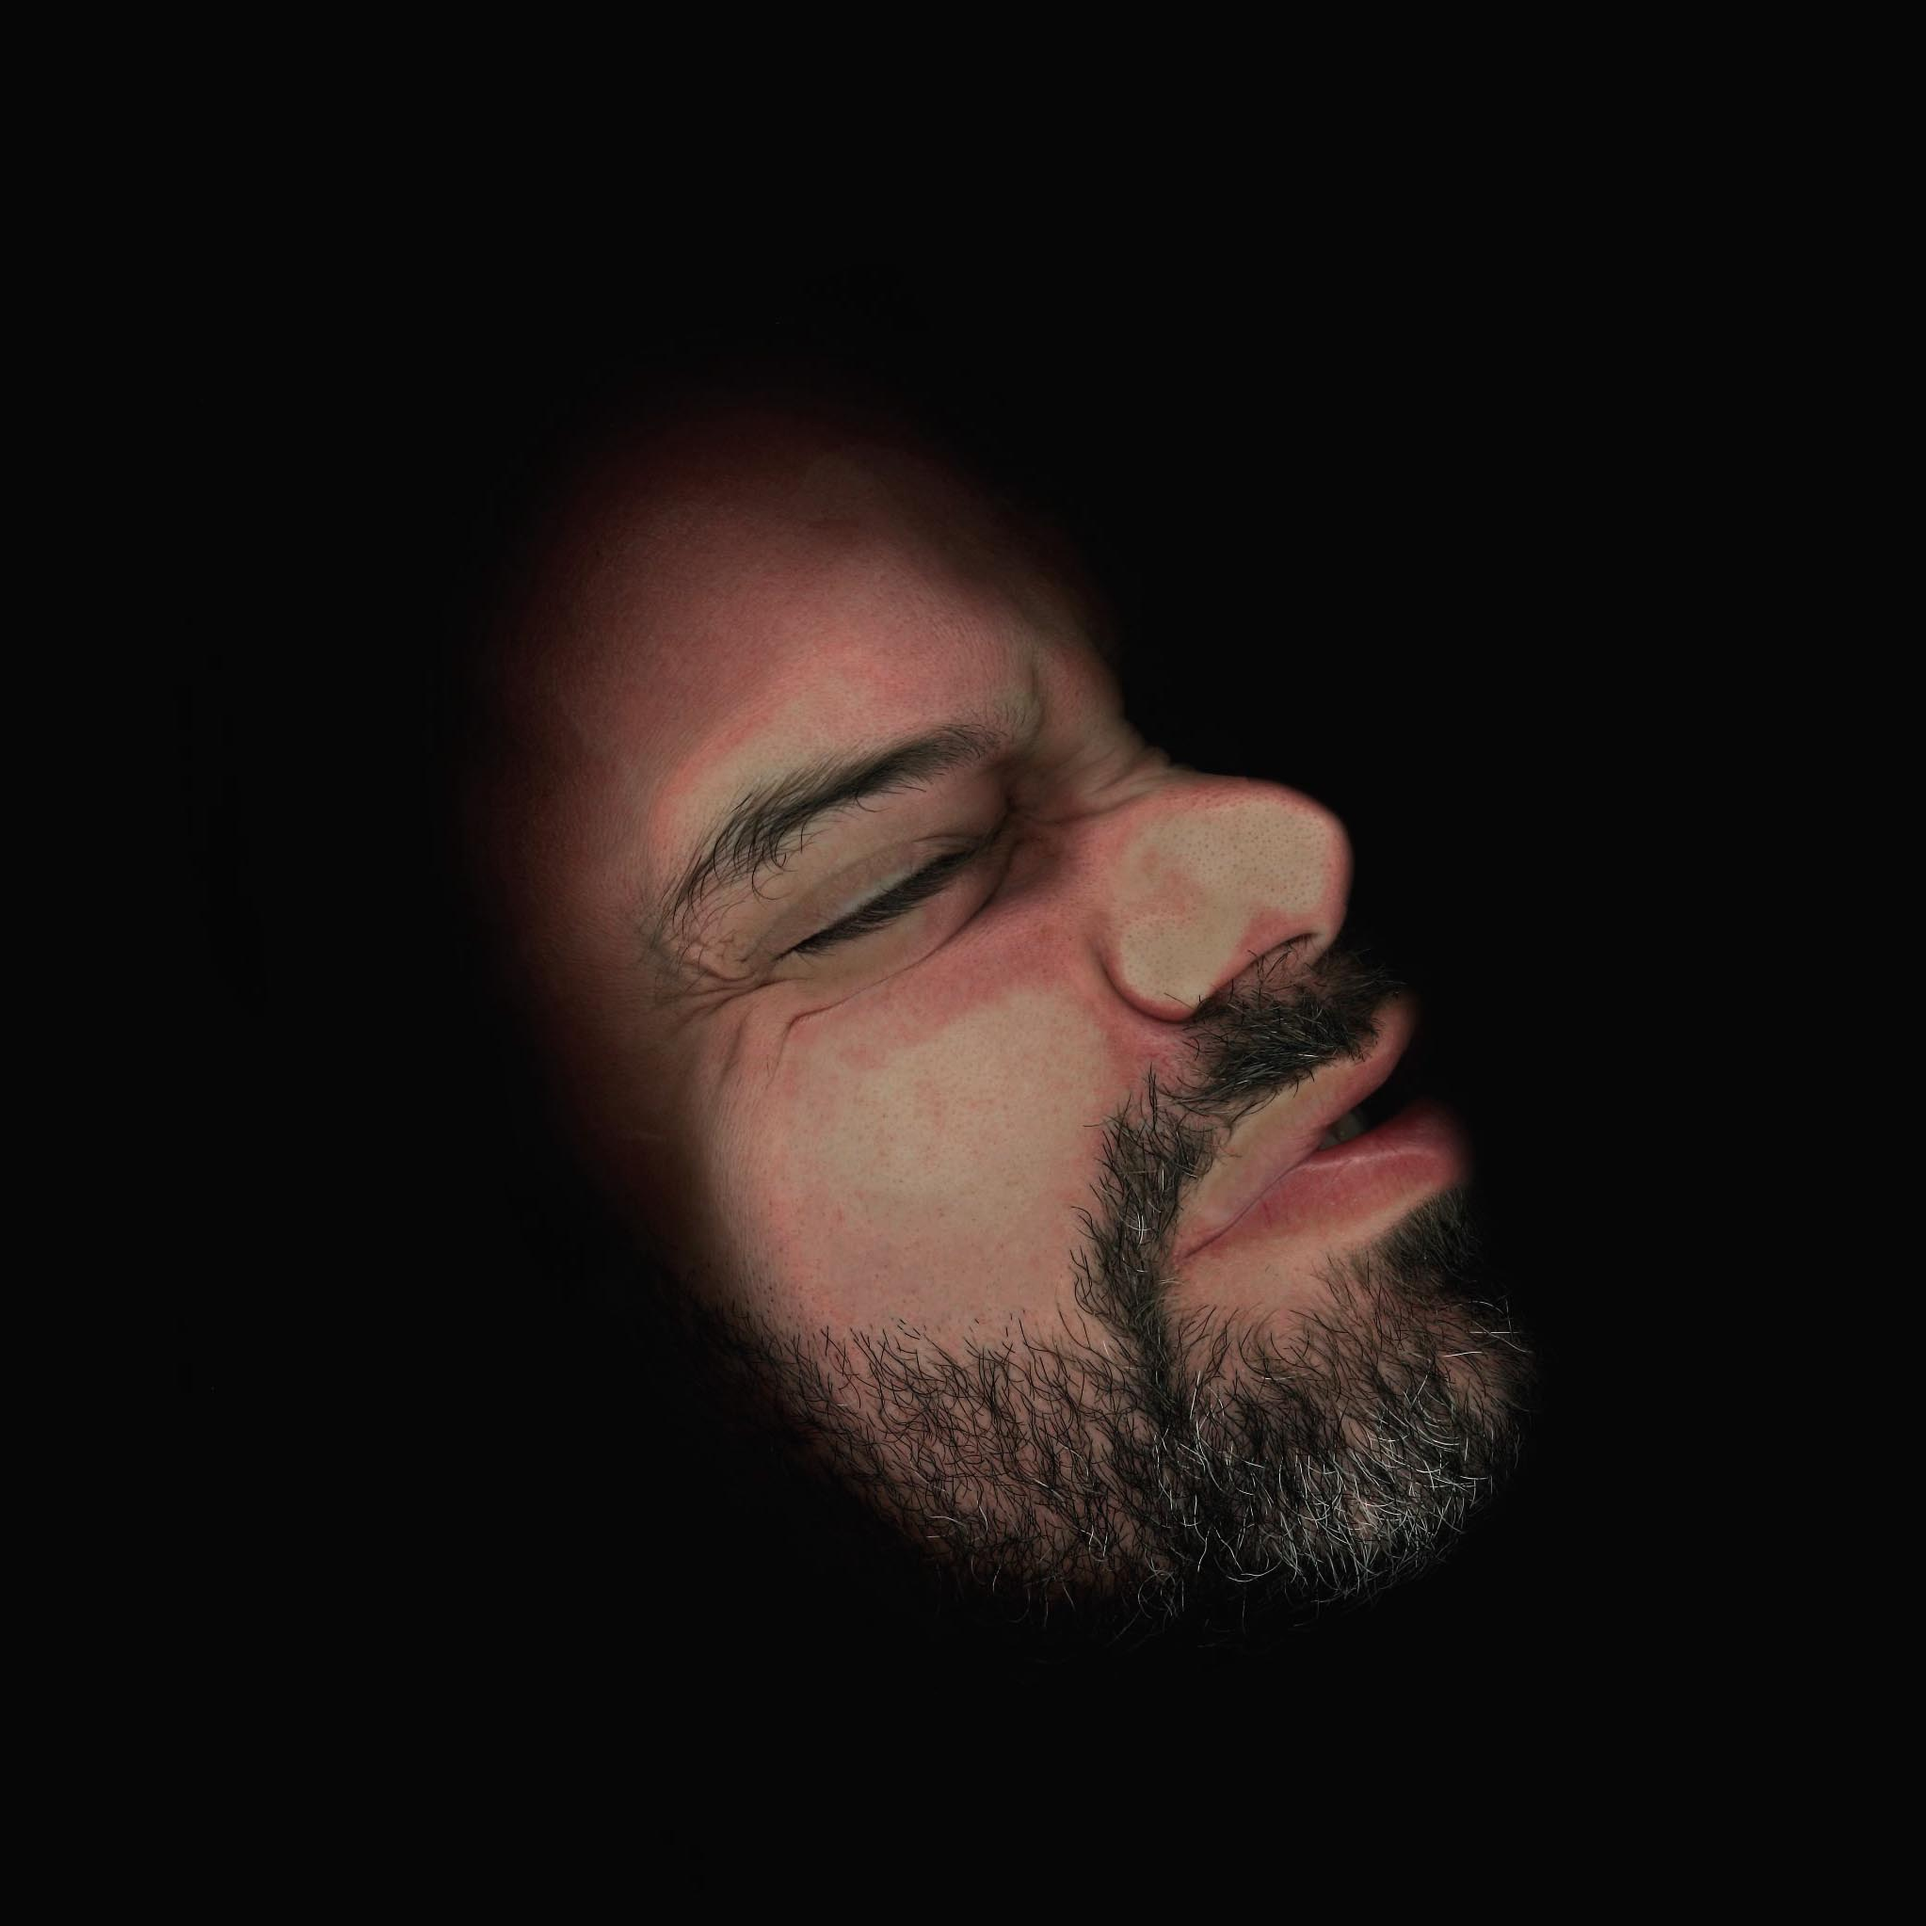
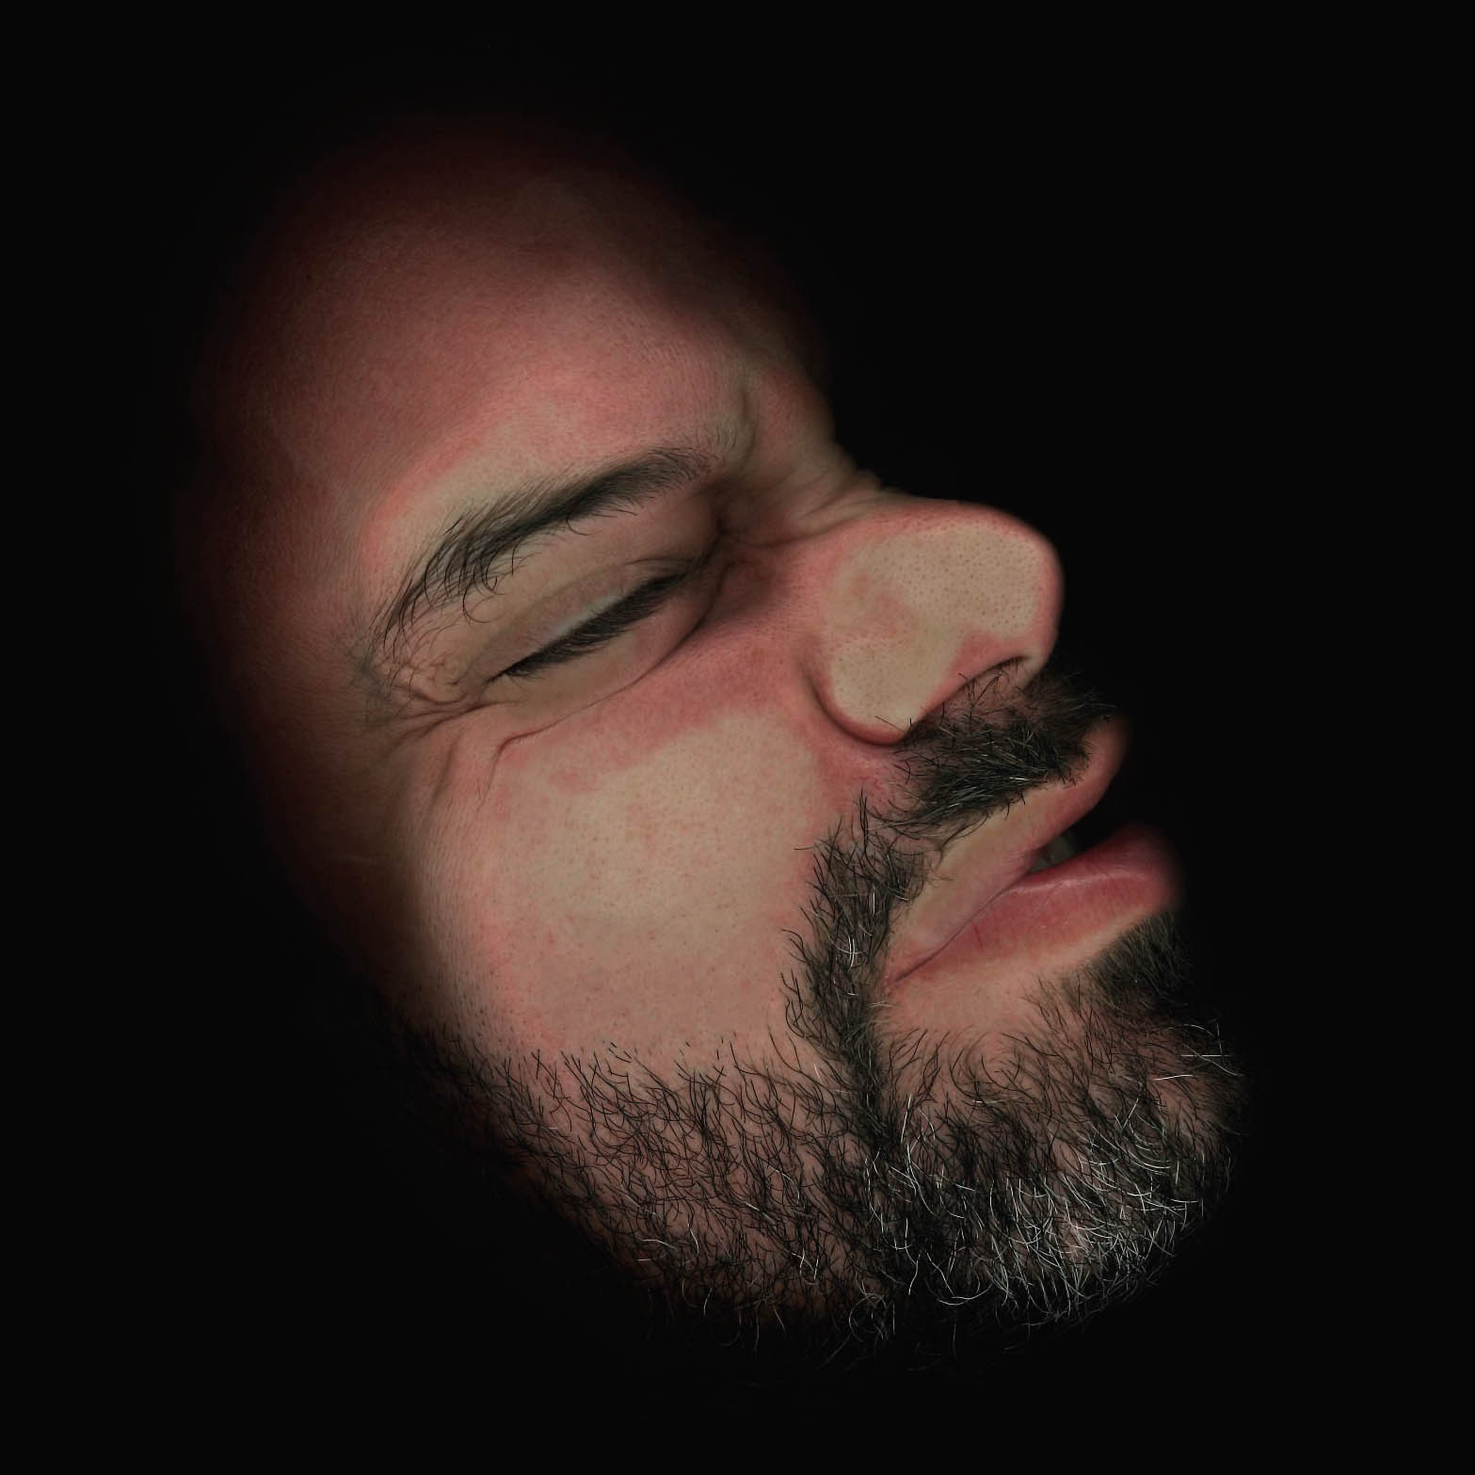
Image resized

Changed region(s): [[0.1532, 0.0919, 0.8271, 0.8883]]

diff --git a/src/app/components/BackImage/BackImage.tsx b/src/app/components/BackImage/BackImage.tsx
@@ -23,8 +23,8 @@ const BackImage: React.FC = () => {
           (cursorX >= windowWidth / 2 && cursorY >= windowHeight / 2)
       );
 
-      const tiltX = ((cursorY - windowHeight / 2) / windowHeight) * 20;
-      const tiltY = (-(cursorX - windowWidth / 2) / windowWidth) * 20;
+      const tiltX = ((cursorY - windowHeight / 2) / windowHeight) * 15;
+      const tiltY = (-(cursorX - windowWidth / 2) / windowWidth) * 15;
 
       setTiltStyle({
         transform: `translate(-50%, -50%) rotateX(${tiltX}deg) rotateY(${tiltY}deg)`,
